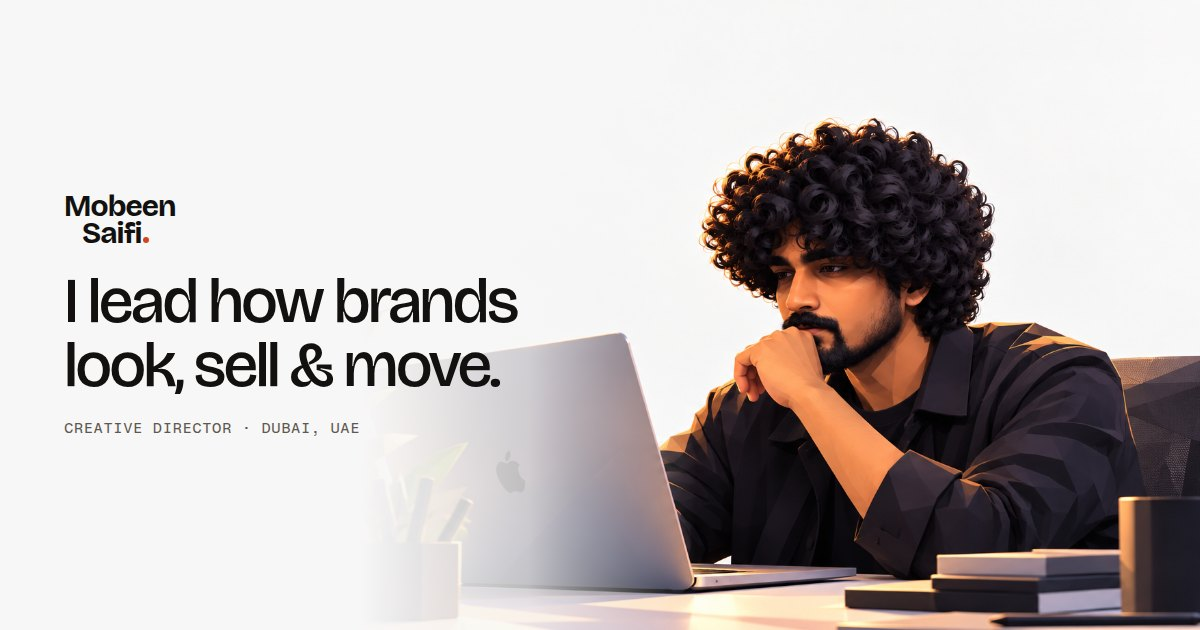
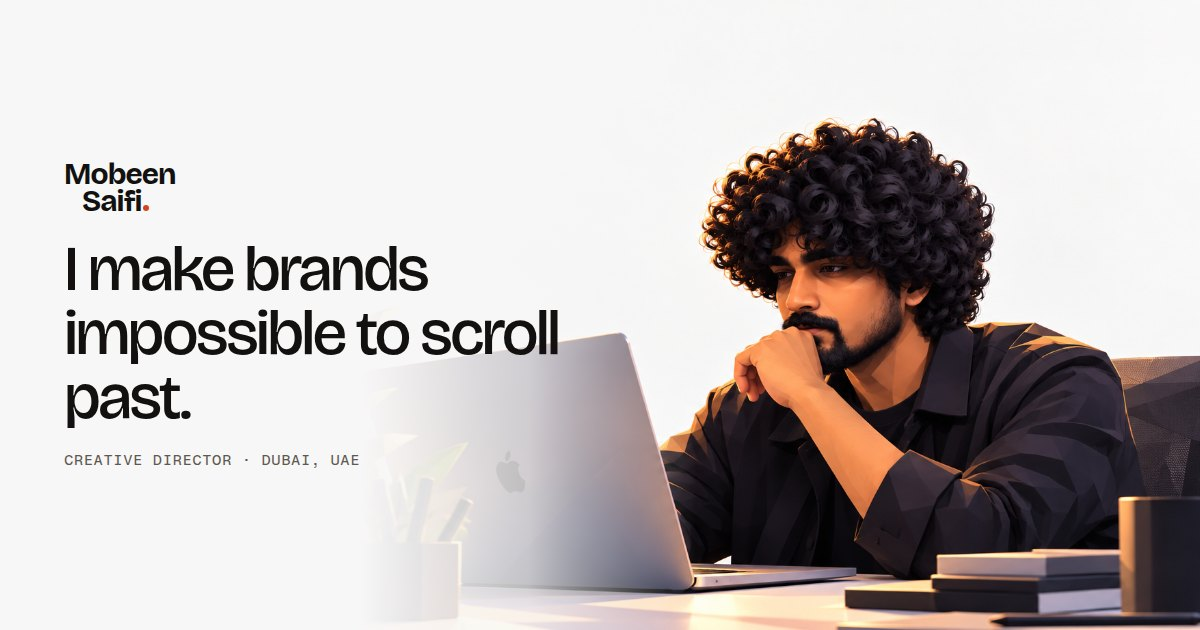
mbndxb

Changed region(s): [[0.0308, 0.2413, 0.4625, 0.6937], [0.0617, 0.7238, 0.185, 0.754], [0.2158, 0.7238, 0.3083, 0.754]]

diff --git a/src/styles/home.css b/src/styles/home.css
@@ -43,22 +43,23 @@
 /* Steam over the mug (about 92% across, 70% down the picture). */
 .hero__steam { position: absolute; left: 89.5%; top: 55%; width: 5%; overflow: visible; pointer-events: none; z-index: 2; }
 .hero__steam path { fill: none; stroke: rgba(120, 110, 100, 0.55); stroke-width: 1.6; stroke-linecap: round; opacity: 0; }
-/* Thoughts rise from just above his head (about 61% across, 20% down). */
-.hero__thoughts { position: absolute; left: 61%; top: 20%; width: 0; height: 0; pointer-events: none; z-index: 3; }
+/* Thoughts emerge beside his head in two alternating lanes (set in Hero.jsx). */
+.hero__thoughts { position: absolute; inset: 0; pointer-events: none; z-index: 3; }
 .hero__thought {
   position: absolute;
   left: 0;
   top: 0;
   translate: -50% -100%;
-  padding: 8px 13px 7px;
+  padding: 11px 18px 10px;
   border-radius: 999px;
   white-space: nowrap;
-  background: rgba(255, 255, 255, 0.92);
-  box-shadow: inset 0 0 0 1px var(--line), 0 10px 24px -16px rgba(18, 17, 16, 0.45);
-  color: var(--ink);
-  font-size: 10px;
+  background: var(--ink);
+  box-shadow: 0 14px 30px -14px rgba(18, 17, 16, 0.55);
+  color: #fff;
+  font-size: 13px;
+  letter-spacing: 0.06em;
 }
-.hero__thought::before { content: ''; display: inline-block; width: 6px; height: 6px; margin-right: 8px; border-radius: 50%; background: var(--gold); vertical-align: 1px; }
+.hero__thought::before { content: ''; display: inline-block; width: 8px; height: 8px; margin-right: 10px; border-radius: 50%; background: var(--gold); vertical-align: 0; }
 
 .hero__bar {
   display: flex;
@@ -76,11 +77,20 @@
 .hero__copy { align-self: center; display: grid; gap: 3.4vh; max-width: min(36vw, 600px); padding: 4vh 0; }
 .hero__head { font-size: clamp(42px, 5vw, 100px); font-weight: 500; line-height: 1; letter-spacing: -0.045em; }
 .hero__intro { font-size: clamp(16px, 1.2vw, 20px); line-height: 1.5; max-width: 40ch; }
-.hero__facts { display: flex; flex-wrap: wrap; gap: 8px 0; color: var(--mute); }
-.hero__facts li + li::before { content: '·'; margin: 0 12px; color: var(--gold); }
+.hero__creds {
+  display: grid;
+  grid-template-columns: repeat(2, minmax(0, 1fr));
+  gap: 0 24px;
+  max-width: 34rem;
+  border-top: 1px solid var(--line);
+}
+.hero__creds > div { padding: 12px 0; border-bottom: 1px solid var(--line); }
+.hero__creds dt { color: var(--mute); margin-bottom: 4px; }
+.hero__creds dd { font-size: 15px; font-weight: 500; letter-spacing: -0.01em; }
 .hero__cta { display: flex; flex-wrap: wrap; gap: 10px; }
 
 .pill {
+  display: inline-block;
   font-size: 15px;
   font-weight: 500;
   padding: 12px 22px;
@@ -98,7 +108,6 @@
   .hero { min-height: auto; grid-template-rows: auto auto auto; padding: var(--nav-h) var(--gutter) 40px; }
   /* The negative bottom margin pulls the content up onto the faded part of the picture. */
   .hero__bg { position: relative; inset: auto; z-index: 0; grid-row: 1; aspect-ratio: 4 / 5; margin: 0 calc(var(--gutter) * -1) -26vw; }
-  .hero__thoughts { display: none; }
   /* An eased fade (many soft stops) from the photo into the page colour, so the dark shirt
      melts away instead of turning grey. The location line and headline sit on it. */
   .hero__veil {
@@ -120,9 +129,8 @@
   .hero__copy { grid-row: 3; align-self: start; max-width: none; padding: 16px 0 0; gap: 20px; }
   .hero__head { font-size: clamp(36px, 10.2vw, 56px); max-width: 12ch; }
   .hero__intro { font-size: 15px; line-height: 1.55; }
-  .hero__facts { gap: 6px; font-size: 11px; color: var(--fg); }
-  .hero__facts li { padding: 6px 10px 5px; border-radius: 999px; box-shadow: inset 0 0 0 1px var(--line); }
-  .hero__facts li + li::before { content: none; }
+  .hero__creds { gap: 0 16px; }
+  .hero__creds dd { font-size: 14px; }
   .hero__cta { gap: 10px; }
   .hero__cta .pill { flex: 1; text-align: center; padding: 14px 16px; }
 }
@@ -362,25 +370,31 @@ html.nav-away .catbar.is-on { transform: translateY(14px); }
     text-transform: uppercase;
     color: var(--mute);
   }
-  /* Each piece sits alone, centred on its own screen-wide page: nothing peeks in from the sides. */
-  .chap__track { align-items: center; gap: 0; padding: 0; }
+  /* Left-aligned carousel: cards start at the page margin and the next one peeks in. */
+  /* Clipped at the left text margin, so a passed card never shows as a sliver; the next one peeks in on the right. */
+  /* position: relative makes the window the cards' offset parent, so autoplay measures them exactly. */
+  .chap__window { position: relative; scroll-padding-left: var(--gutter); clip-path: inset(-20px 0 -20px var(--gutter)); }
+  .chap__track { align-items: center; gap: 12px; padding: 0 var(--gutter); }
   .chap__window { overflow-x: auto; scroll-snap-type: x mandatory; scrollbar-width: none; }
   .chap__window::-webkit-scrollbar { display: none; }
   /* Sized by width, so each slot is exactly as tall as the piece in it. */
   /* One row height for every piece, so short pieces never leave a gap below. */
+  /* Each card takes the exact proportions of its piece (no fill, so no side bands).
+     Very wide pieces are capped by width and shrink in height instead. */
   .chap__cell {
-    --row: 64vw;
-    --w: min(calc(100vw - 2 * var(--gutter)), calc(var(--row) * var(--r)));
-    scroll-snap-align: center;
-    height: var(--row);
+    --row: 50vw;
+    --w: min(calc(var(--row) * var(--r)), 78vw);
+    scroll-snap-align: start;
     width: var(--w);
-    margin-inline: calc((100vw - var(--w)) / 2);
-    display: grid;
-    align-items: center;
+    height: calc(var(--w) / var(--r));
   }
-  .chap--reels .chap__cell { --row: 112vw; }
-  .chap__cell > * { width: 100%; height: auto; max-height: var(--row); }
-  .chap__cols, .chap__col { gap: 8px; }
+  .chap--reels .chap__cell { --row: 96vw; }
+  .chap__cell > * { width: 100%; height: 100%; }
+  .chap__cell .plate { background: transparent; }
+  /* True masonry on phones: two flowing columns, each piece directly under the one above. */
+  .chap__cols { display: block; columns: 2; column-gap: 8px; }
+  .chap__col { display: contents; }
+  .chap__cols .plate { break-inside: avoid; margin-bottom: 8px; }
   .chap__cols--6 { grid-template-columns: repeat(2, 1fr); }
   .chap__grid { gap: 8px; }
   .chap__banners { gap: 10px; }

diff --git a/src/styles/chrome.css b/src/styles/chrome.css
@@ -157,7 +157,7 @@ html.has-cursor, html.has-cursor a, html.has-cursor button, html.has-cursor [dat
   position: absolute;
   left: 50%;
   top: 50%;
-  height: clamp(180px, 34vh, 380px);
+  height: min(clamp(180px, 34vh, 380px), 56vw);
   width: auto;
   max-width: none;
   translate: -50% -50%;
@@ -232,10 +232,21 @@ html.has-cursor, html.has-cursor a, html.has-cursor button, html.has-cursor [dat
   --mute: #8f897f;
 }
 .contact > *:not(.contact__lattice) { position: relative; }
-.contact__lattice { position: absolute; inset: 0; width: 100%; height: 100%; color: var(--gold); opacity: 0.12; pointer-events: none; }
+.contact__lattice {
+  position: absolute;
+  inset: 0;
+  width: 100%;
+  height: 100%;
+  color: var(--gold);
+  opacity: 0.14;
+  pointer-events: none;
+  /* The pattern frames the section (top and bottom) and fades out behind the text. */
+  -webkit-mask-image: linear-gradient(180deg, #000 0, transparent 26%, transparent 70%, #000 100%);
+  mask-image: linear-gradient(180deg, #000 0, transparent 26%, transparent 70%, #000 100%);
+}
 .contact__hello { display: flex; align-items: baseline; gap: 14px; margin-bottom: 4vh; color: var(--gold); }
 .contact__hello .ar { font-size: clamp(28px, 3vw, 48px); }
-.contact__note { max-width: 46ch; margin-top: 4vh; font-size: 17px; line-height: 1.5; color: rgba(237, 234, 228, 0.75); }
+.contact__note { max-width: 46ch; margin-top: 4vh; font-size: 17px; line-height: 1.55; color: rgba(237, 234, 228, 0.86); }
 .contact__skyline { display: block; width: 100%; height: auto; margin-top: 12vh; color: var(--gold); }
 .contact__title {
   font-size: clamp(44px, 8.4vw, 160px);
@@ -266,15 +277,15 @@ html.has-cursor, html.has-cursor a, html.has-cursor button, html.has-cursor [dat
 .contact__arrow { font-size: clamp(18px, 1.8vw, 30px); opacity: 0.5; transition: transform 0.7s var(--ease), color 0.3s, opacity 0.3s; }
 .contact__open:hover .contact__label { transform: translateX(0.4vw); color: var(--gold); }
 .contact__open:hover .contact__arrow { transform: rotate(45deg); color: var(--gold); opacity: 1; }
-.contact__handle { color: var(--mute); font-size: 12px; user-select: all; }
+.contact__handle { color: rgba(237, 234, 228, 0.78); font-size: 16px; letter-spacing: 0; user-select: all; }
 .contact__copy {
   display: inline-flex;
   align-items: center;
   gap: 8px;
-  padding: 9px 14px 8px;
+  padding: 10px 15px 9px;
   border-radius: 999px;
-  border: 1px solid var(--line);
-  color: rgba(237, 234, 228, 0.8);
+  border: 1px solid rgba(237, 234, 228, 0.32);
+  color: var(--paper);
   transition: background-color 0.3s, color 0.3s, border-color 0.3s;
 }
 .contact__copy svg { width: 14px; height: 14px; }
@@ -296,11 +307,14 @@ html.has-cursor, html.has-cursor a, html.has-cursor button, html.has-cursor [dat
 @media (max-width: 700px) {
   .contact { padding-top: 96px; }
   .contact__hello { margin-bottom: 20px; }
-  .contact__note { margin-top: 20px; font-size: 15px; }
+  .contact__note { margin-top: 20px; font-size: 16px; }
+  .contact__lattice { opacity: 0.1; -webkit-mask-image: linear-gradient(180deg, #000 0, transparent 14%, transparent 80%, #000 100%); mask-image: linear-gradient(180deg, #000 0, transparent 14%, transparent 80%, #000 100%); }
+  .contact__label { font-size: 26px; }
+  .contact__handle { font-size: 15px; }
   .contact__links { margin-top: 48px; }
   .contact__skyline { margin-top: 56px; }
   .contact__base { padding: 24px 0 calc(24px + env(safe-area-inset-bottom)); }
-  .contact__row { grid-template-columns: 1fr auto; row-gap: 8px; padding: 18px 0; }
+  .contact__row { grid-template-columns: 1fr auto; row-gap: 6px; column-gap: 16px; padding: 22px 0; }
   .contact__handle { grid-column: 1; grid-row: 2; }
   .contact__copy { grid-column: 2; grid-row: 1 / 3; }
 }

diff --git a/src/sections/Hero.jsx b/src/sections/Hero.jsx
@@ -38,7 +38,7 @@ export default function Hero() {
       .from('.hero__glow', { autoAlpha: 0, duration: 2 }, 0.6)
       .from('.hero__bar > *', { y: 12, autoAlpha: 0, duration: 1, stagger: 0.08 }, 0.4)
       .from('.hero__head .w > span', { y: '0.35em', autoAlpha: 0, filter: 'blur(10px)', duration: 1.4, stagger: 0.05 }, 0.6)
-      .from('.hero__intro, .hero__facts li, .hero__cta > *', { y: 16, autoAlpha: 0, duration: 1, stagger: 0.05 }, 1.1)
+      .from('.hero__intro, .hero__creds > div, .hero__cta > *', { y: 16, autoAlpha: 0, duration: 1, stagger: 0.05 }, 1.1)
     const off = onReveal(() => tl.play())
 
     gsap.to('.hero__glow', { opacity: 0.5, scale: 1.08, duration: 4.5, ease: 'sine.inOut', yoyo: true, repeat: -1 })
@@ -84,12 +84,21 @@ export default function Hero() {
       el.className = 'hero__thought mono'
       el.textContent = p.title
       box.appendChild(el)
-      const side = i % 2 ? 1 : -1
+      // Two lanes in picture coordinates: right of the head, and upper left of it.
+      // Phones show a narrow portrait crop, so the lanes sit closer in and drift less.
+      const small = phone()
+      const lane = i % 2
+        ? (small ? { left: '68%', top: '30%', side: 0.35 } : { left: '74%', top: '33%', side: 1 })
+        : (small ? { left: '53%', top: '22%', side: -0.35 } : { left: '50%', top: '25%', side: -1 })
+      el.style.left = lane.left
+      el.style.top = lane.top
+      const side = lane.side
       // Rise in proportion to the frame, so the labels fade before its top edge.
       const H = box.parentElement.offsetHeight
       gsap.timeline({ onComplete: () => el.remove() })
-        .fromTo(el, { x: side * 10, y: 10, scale: 0.85, autoAlpha: 0, filter: 'blur(6px)' }, { x: side * 34, y: -H * 0.05, scale: 1, autoAlpha: 1, filter: 'blur(0px)', duration: 1.6, ease: 'power2.out' })
-        .to(el, { x: side * 60, y: -H * 0.13, autoAlpha: 0, filter: 'blur(4px)', duration: 2.2, ease: 'power1.in' })
+        .fromTo(el, { x: side * 10, y: 12, scale: 0.7, autoAlpha: 0 }, { x: side * 40, y: -H * 0.03, scale: 1, autoAlpha: 1, duration: 0.9, ease: 'back.out(1.7)' })
+        .to(el, { x: side * 56, y: -H * 0.06, duration: 1.6, ease: 'sine.inOut' })
+        .to(el, { x: side * 72, y: -H * 0.1, autoAlpha: 0, duration: 1.1, ease: 'power1.in' })
     }
     const start = setTimeout(() => {
       think()
@@ -181,12 +190,17 @@ export default function Hero() {
       <div className="hero__copy">
         <h1 className="hero__head"><Words text={site.headline} /></h1>
         <p className="hero__intro">{site.intro}</p>
-        <ul className="hero__facts mono">
-          {site.facts.map(f => <li key={f}>{f}</li>)}
-        </ul>
+        <dl className="hero__creds">
+          {site.credentials.map(c => (
+            <div key={c.label}>
+              <dt className="mono">{c.label}</dt>
+              <dd>{c.value}</dd>
+            </div>
+          ))}
+        </dl>
         <div className="hero__cta">
           <button className="pill pill--solid" onClick={() => scrollTo('#work')} data-cursor="Scroll">See the work ↓</button>
-          <button className="pill" onClick={() => scrollTo('#contact')} data-cursor="Contact">Get in touch</button>
+          <a className="pill" href={url(site.cv.file)} download="Mobeen-Saifi-CV.pdf" data-cursor="Download">Download CV</a>
         </div>
       </div>
     </section>

diff --git a/src/sections/Chapters.jsx b/src/sections/Chapters.jsx
@@ -186,7 +186,7 @@ function Chapter({ p, n }) {
   )
 }
 
-// Phones: a strip is a swipeable carousel that also advances on its own.
+// Phones: a strip is a left-aligned swipeable carousel that also advances on its own.
 // One piece every few seconds, looping to the start, only while on screen;
 // any touch pauses it, and it resumes a few seconds after the last one.
 function useAutoplay(ref) {
@@ -204,12 +204,12 @@ function useAutoplay(ref) {
     el.addEventListener('wheel', hold, opts)
     const step = () => {
       if (!visible || Date.now() < idleUntil || document.hidden) return
+      // Cards snap to the left margin, so step to the next card's left edge.
+      const pad = parseFloat(getComputedStyle(el).scrollPaddingLeft) || 0
       const cells = [...el.querySelectorAll('.chap__cell')]
-      const mid = el.scrollLeft + el.clientWidth / 2
-      const next = cells.find(c => c.offsetLeft + c.offsetWidth / 2 > mid + 4)
+      const next = cells.find(c => c.offsetLeft - pad > el.scrollLeft + 4)
       const atEnd = !next || el.scrollLeft + el.clientWidth >= el.scrollWidth - 4
-      const left = atEnd ? 0 : next.offsetLeft + next.offsetWidth / 2 - el.clientWidth / 2
-      el.scrollTo({ left, behavior: 'smooth' })
+      el.scrollTo({ left: atEnd ? 0 : next.offsetLeft - pad, behavior: 'smooth' })
     }
     const timer = setInterval(step, 2800)
     return () => {
@@ -230,11 +230,14 @@ function Strip({ items, title, show }) {
   useEffect(() => {
     const el = win.current
     const onScroll = () => {
-      const mid = el.scrollLeft + el.clientWidth / 2
+      const pad = parseFloat(getComputedStyle(el).scrollPaddingLeft) || 0
+      const x = el.scrollLeft + pad
       const cells = [...el.querySelectorAll('.chap__cell')]
+      // At the far end the last card can't reach the margin, so count it as current.
+      const end = el.scrollLeft + el.clientWidth >= el.scrollWidth - 4
       let best = 0
-      cells.forEach((c, i) => { if (Math.abs(c.offsetLeft + c.offsetWidth / 2 - mid) < Math.abs(cells[best].offsetLeft + cells[best].offsetWidth / 2 - mid)) best = i })
-      setAt(best)
+      cells.forEach((c, i) => { if (Math.abs(c.offsetLeft - x) < Math.abs(cells[best].offsetLeft - x)) best = i })
+      setAt(end ? cells.length - 1 : best)
     }
     el.addEventListener('scroll', onScroll, { passive: true })
     return () => el.removeEventListener('scroll', onScroll)

diff --git a/src/data/site.js b/src/data/site.js
@@ -3,14 +3,20 @@ export const site = {
   name: 'Mobeen Saifi',
   role: 'Creative Director',
   city: 'Dubai',
-  headline: 'I lead how brands look, sell & move.',
-  intro: 'Creative director for consumer brands. I lead brand, packaging, campaign and motion work from first strategy to final launch.',
-  facts: ['11 years', 'UAE driving license', 'On-site or remote'],
+  headline: 'I make brands impossible to scroll past.',
+  intro: 'Eleven years leading design across every touchpoint a brand has: the identity, the pack on the shelf, and the ads, emailers and films that sell it. Now leading design at a 360° agency in Dubai.',
+  // The credentials row under the hero introduction.
+  credentials: [
+    { label: 'Experience', value: '11 years, since 2015' },
+    { label: 'Now', value: 'Design lead, 360° agency, Dubai' },
+    { label: 'Languages', value: 'Arabic & English design' },
+    { label: 'Mobility', value: 'UAE driving license' },
+  ],
   cv: {
     file: 'cv/Mobeen-Saifi-CV.pdf',
     size: '360 KB',
     title: 'Senior Graphic Designer',
-    summary: '11 years in branding, packaging and digital advertising for skincare, Ayurveda and personal-care brands. Leads teams and production from concept to print.',
+    summary: '11 years in branding, packaging and digital advertising. Leads teams and production from concept to print, in Arabic and English.',
     // From the CV, most recent first. `current` shows the Current badge.
     roles: [
       { from: 'Apr 2024', to: 'Present', current: true, role: 'Graphic Designer', company: 'Niche Marketing Management', place: 'Dubai, UAE', line: 'Leads all design, digital and Arabic & English work for a 360° marketing agency.' },

diff --git a/src/data/projects.js b/src/data/projects.js
@@ -14,7 +14,7 @@ export const projects = [
     tags: ['Cartons', 'Gift sets', 'Labels', 'Pouches'],
     cover: 'packaging/01',
     tone: '#7A1F2B',
-    intro: 'Cartons, tubes, tins, jars and gift sets for personal care, wellness and home brands, designed as product families so a full range reads as one on shelf.',
+    intro: 'Cartons, tubes, tins, jars and gift sets, designed as product families so a full range reads as one on shelf.',
   },
   {
     slug: 'social-media',
@@ -23,7 +23,7 @@ export const projects = [
     tags: ['Posts', 'Carousels', 'Launches', 'Offers'],
     cover: 'social-media/08',
     tone: '#E08A2C',
-    intro: 'Always-on and campaign content for direct-to-consumer brands: launches, offers, education and seasonal moments, built to stop the scroll and earn the click.',
+    intro: 'Always-on and campaign content: launches, offers, education and seasonal moments, built to stop the scroll and earn the click.',
   },
   {
     slug: 'performance-marketing',

diff --git a/src/components/Footer.jsx b/src/components/Footer.jsx
@@ -44,7 +44,7 @@ export default function Footer() {
               <span className="contact__label">{l.label}</span>
               <span className="contact__arrow" aria-hidden="true">↗</span>
             </a>
-            <span className="contact__handle mono">{l.handle}</span>
+            <span className="contact__handle">{l.handle}</span>
             <CopyButton value={l.handle} what={l.label} />
           </li>
         ))}

diff --git a/src/components/Loader.jsx b/src/components/Loader.jsx
@@ -90,7 +90,7 @@ export default function Loader({ onDone }) {
       </div>
       <div className="loader__meta loader__meta--foot">
         <span className="mono" ref={count}>000</span>
-        <span className="mono">Design · Motion · Content</span>
+        <span className="mono">Creative direction · since 2015</span>
       </div>
     </div>
   )
